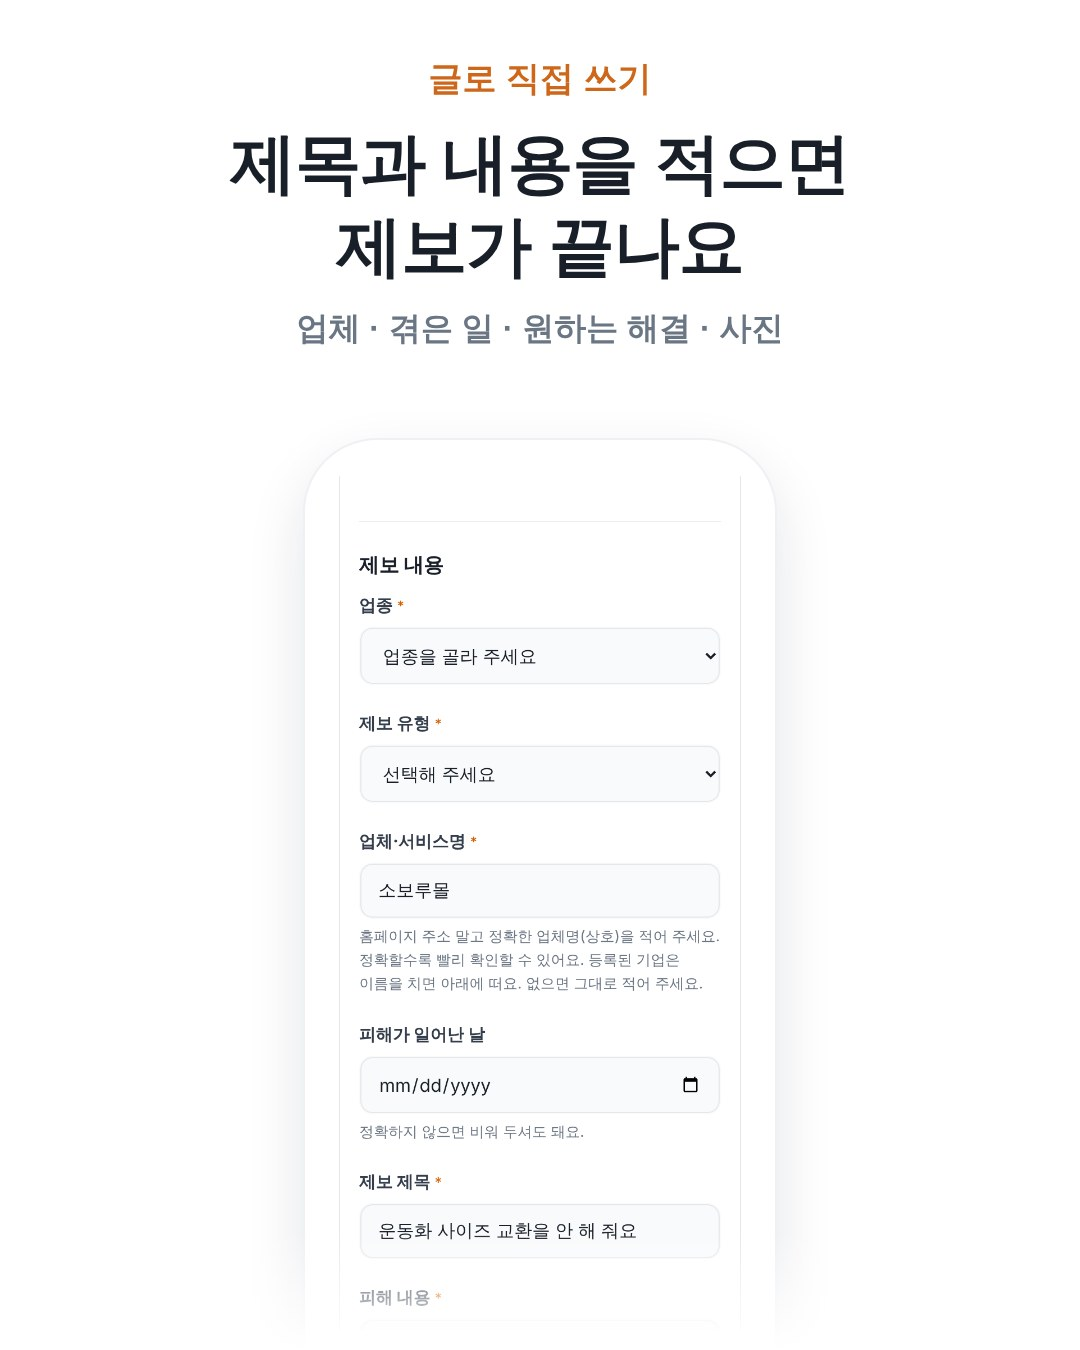
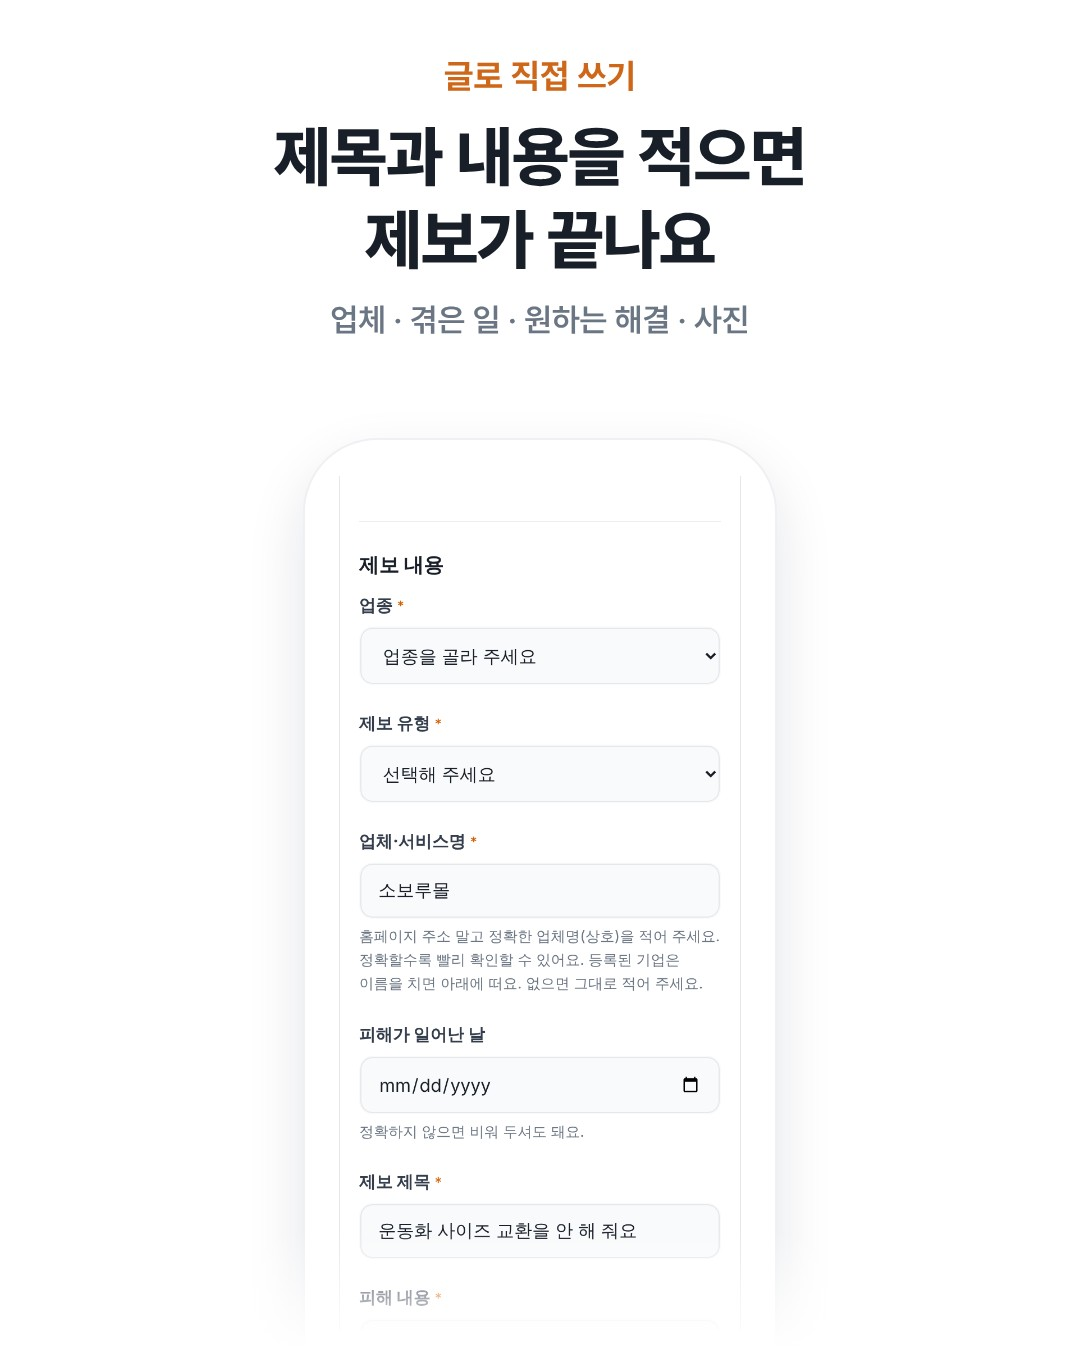
자문단 등록하면 회원 계정 바로 생성 + 이용 안내 그림 글꼴 통일 (#366)
* 자문단 등록하면 자문단 회원 계정이 바로 생기고 로그인됨

Claude-Session: https://claude.ai/code/session_01SGfBdtXmX7h9qt8XW4iLQw

* 이용 안내 '글로 직접 쓰기' 그림 글씨를 한 글꼴(Pretendard)로 다시 그림

Claude-Session: https://claude.ai/code/session_01SGfBdtXmX7h9qt8XW4iLQw

---------

Changed region(s): [[0.2139, 0.0311, 0.7944, 0.28]]

diff --git a/templates/expert_done.html b/templates/expert_done.html
@@ -1,5 +1,5 @@
 {% extends 'base.html' %}
-{# 자문단 등록을 마친 화면 (운영자 2026-11-03: 로그인 없이 등록 → 댓글용 계정은 여기서 한 번만 이음) #}
+{# 자문단 등록을 마친 화면 (운영자 2026-11-04: 등록하면 자문단 회원 계정이 바로 만들어지고 로그인됨) #}
 {% block title %}{{ ui('xf.done_tab', '자문단 등록') }} | {{ txt('site.name') }}{% endblock %}
 {% block content %}
 <main class="xf xf-done"><div class="xf-done-in">
@@ -7,7 +7,7 @@
   <h1 class="xf-title">{% if status == 'approved' %}{{ ui('xf.done_ok', '소보루 자문단이 됐어요') }}{% else %}{{ ui('xf.done_wait', '신청을 받았어요') }}{% endif %}</h1>
   <ul class="xi-list xf-next">
     {% if status != 'approved' %}<li><span class="xh-ic is-check" aria-hidden="true"><svg viewBox="0 0 24 24"><path d="M12 3l7 3v5c0 4.5-3 8-7 10-4-2-7-5.5-7-10V6z"/><path d="M9 12l2 2 4-4"/></svg></span><div><b>{{ ui('xf.next1', '자격증 파일을 확인할게요') }}</b><span>{{ ui('xf.next1_sub', '확인이 끝나면 연락처로 알려 드려요') }}</span></div></li>{% endif %}
-    {% if login_url %}<li><span class="xh-ic is-talk" aria-hidden="true"><svg viewBox="0 0 24 24"><path d="M4 5h16v11H9l-5 4z"/></svg></span><div><b>{{ ui('xf.next2', '댓글을 달 계정을 이어 주세요') }}</b><span>{{ ui('xf.next2_sub', '카카오로 로그인하면 한 번에 이어져요') }}</span></div></li>{% endif %}
+    <li><span class="xh-ic is-talk" aria-hidden="true"><svg viewBox="0 0 24 24"><path d="M4 5h16v11H9l-5 4z"/></svg></span><div><b>{{ ui('xf.next3', '자문단 계정이 만들어졌어요') }}</b><span>{{ ui('xf.next3_sub', '지금 로그인된 상태예요. 다음부터는 적어 주신 휴대폰 번호로 로그인해요') }}</span></div></li>
   </ul>
   <div class="xi-cta">{% if login_url %}<a class="primary xi-go" href="{{ login_url }}">{{ ui('xf.claim', '로그인하고 계정 잇기') }}</a>{% else %}<a class="primary xi-go" href="{{ url_for('reports') }}">{{ ui('xf.to_reports', '제보 보러 가기') }}</a>{% endif %}</div>
 </div></main>

diff --git a/templates/admin_experts.html b/templates/admin_experts.html
@@ -3,7 +3,7 @@
 {% block content %}
 <main class="cs-page">
   <h1 class="cs-title">소보루 자문단</h1>
-  <p class="cs-lead">모시고 싶은 분을 한 명씩 등록해 <b>초대 링크</b>를 보내 주세요. 링크를 연 분이 정보와 자격증 파일을 넣으면 로그인 없이 바로 자문단이 돼요. 모집 페이지(<b>{{ url_for('expert_apply', _external=True) }}</b>)로 직접 신청한 분은 자격증 파일을 보고 공식 조회로 맞춰 본 뒤 승인해 주세요. 댓글에 ‘자문단 · 분야’ 표시가 붙으려면 그분이 카카오 로그인으로 계정을 한 번 이어야 해요.</p>
+  <p class="cs-lead">모시고 싶은 분을 한 명씩 등록해 <b>초대 링크</b>를 보내 주세요. 링크를 연 분이 정보와 자격증 파일을 넣으면 그 자리에서 자문단 계정이 만들어지고 바로 자문단이 돼요. 따로 가입하거나 로그인할 필요는 없고, 다음부터는 적어 준 휴대폰 번호로 로그인해요. 모집 페이지(<b>https://consumerjebo.co.kr{{ url_for('expert_apply') }}</b>)로 직접 신청한 분은 자격증 파일을 보고 공식 조회로 맞춰 본 뒤 승인해 주세요.</p>
 
   <form class="cs-panel cs-add" method="post"><input type="hidden" name="_csrf" value="{{ csrf_token() }}"><input type="hidden" name="act" value="invite">
     <h2>자문단 초대</h2>

diff --git a/templates/expert_form.html b/templates/expert_form.html
@@ -62,7 +62,7 @@
   <ol class="xf-step">
     <li><i>01</i><b>{{ ui('xf.s1', '신청') }}</b><p>{{ ui('xf.s1_t', '위 칸을 채우고 자격 서류를 올려요.') }}</p></li>
     <li><i>02</i><b>{{ ui('xf.s2', '확인') }}</b><p>{{ ui('xf.s2_t', '운영자가 서류를 보고 승인해요. 초대 링크로 오셨다면 바로 끝나요.') }}</p></li>
-    <li><i>03</i><b>{{ ui('xf.s3', '계정 잇기') }}</b><p>{{ ui('xf.s3_t', '카카오로 한 번 로그인하면 댓글에 자문단 표시가 붙어요.') }}</p></li>
+    <li><i>03</i><b>{{ ui('xf.s3b', '자문단 계정이 바로 생겨요') }}</b><p>{{ ui('xf.s3b_t', '따로 가입하지 않아도 돼요. 다음부터는 적어 주신 휴대폰 번호로 로그인해요.') }}</p></li>
     <li><i>04</i><b>{{ ui('xf.s4', '활동 시작') }}</b><p>{{ ui('xf.s4_t', '관심 있는 제보에 의견을 남기고, 받은 상담 신청을 확인해요.') }}</p></li>
   </ol>
   <a class="xf-more-go" href="#top">{{ ui('xf.more_go', '지금 신청하기') }}</a>

diff --git a/experts.py b/experts.py
@@ -123,9 +123,13 @@ def install(S):
         proof2 = save_proof(row['proof2'] if row else '', 'proof2')
         photo = save_photo(row['photo'] if row else '')
         status = 'approved' if invited else 'pending'
-        uid = g.user['id'] if g.user else None
-        claim = None if uid else secrets.token_urlsafe(16)
+        claim = None
         with conn() as db:
+            # 운영자 2026-11-04: 변호사가 따로 로그인하지 않게, 등록하는 순간 자문단 회원 계정을 만들고 바로 로그인시킴.
+            # 다음부터는 등록한 휴대폰 번호로 로그인하면 같은 계정. 이미 같은 번호의 회원이 있으면 그 계정에 이음
+            mine = g.user and db.execute('SELECT 1 FROM experts WHERE user_id=? AND id!=?', (g.user['id'], row['id'] if row else 0)).fetchone()
+            user = g.user if g.user and not mine else make_account(db, f)  # 이미 다른 자문단 계정으로 로그인돼 있으면(같은 브라우저로 여러 분 등록) 새 계정
+            uid = user['id']
             if row:
                 db.execute('UPDATE experts SET user_id=?,name=?,field=?,org=?,intro=?,phone=?,email=?,career=?,proof=?,proof2=?,photo=?,kind=?,status=?,token=NULL,claim=?,approved=? WHERE id=?',
                            (uid, *f.values(), proof, proof2, photo, kind, status, claim, now() if invited else '', row['id']))
@@ -133,8 +137,24 @@ def install(S):
             else:
                 eid = db.execute('INSERT INTO experts(user_id,name,field,org,intro,phone,email,career,proof,proof2,photo,kind,status,claim,created) VALUES(?,?,?,?,?,?,?,?,?,?,?,?,?,?,?)',
                                  (uid, *f.values(), proof, proof2, photo, kind, status, claim, now())).lastrowid
+        if not g.user or g.user['id'] != user['id']: S.sign_in(user, True)
         alert_new_expert(eid, f, kind, status)
         return eid, status, claim
+
+    def make_account(db, f):
+        phone = S.members.kr_phone(f['phone'])
+        if phone:
+            row = db.execute('SELECT * FROM users WHERE phone_verified=? ORDER BY id LIMIT 1', (phone,)).fetchone()
+            if row and not db.execute('SELECT 1 FROM experts WHERE user_id=?', (row['id'],)).fetchone(): return row
+        base = ''.join(ch for ch in f['name'] if ch.isalnum())[:10]
+        nick = next((n for n in [base] + [base + str(random.randint(2, 99)) for _ in range(5)] if n and not S.nickname_error(db, n)), '') or S.members.auto_nickname(db)
+        for _ in range(5):
+            login_id = 'x_' + secrets.token_hex(5)
+            if not db.execute('SELECT 1 FROM users WHERE login_id=?', (login_id,)).fetchone(): break
+        cur = db.execute("INSERT INTO users(login_id,pw_hash,nickname,email,terms_version,agreed_at,ip_hash,created,phone,phone_verified) VALUES(?,'',?,?,?,?,?,?,?,?)",
+                         (login_id, nick, f['email'], S.TERMS_VERSION, now(), S.ip_hash(), now(), phone, phone))
+        db.execute('UPDATE experts SET user_id=NULL WHERE user_id=?', (cur.lastrowid,))  # 지워진 옛 회원 번호가 다시 쓰인 경우 남은 연결 정리
+        return db.execute('SELECT * FROM users WHERE id=?', (cur.lastrowid,)).fetchone()
 
     def alert_new_expert(eid, f, kind, status):
         """운영자 2026-11-03 (밤): 자문단 가입이 들어오면 바로 하이웍스 메일(contact@)로 알림. EXPERT_ALERT_EMAIL로 바꿀 수 있음."""

diff --git a/tests/test_site.py b/tests/test_site.py
@@ -497,12 +497,12 @@ class SiteTest(unittest.TestCase):
         r = self.post_form(guest, '/expert/join/' + token, {'name': '김변호', 'field': '변호사', 'email': 'kim@x.kr', 'agree': '1', 'proof': pdf(), 'photo': (pic, 'me.jpg')})
         self.assertEqual(r.status_code, 302)
         done = guest.get(r.headers['Location']).get_data(as_text=True)
-        self.assertIn('/expert/claim/', done)  # 로그인 없이 등록 → 댓글용 계정은 나중에 한 번 잇기
+        # 운영자 2026-11-04: 등록하면 자문단 회원 계정이 바로 생기고 로그인됨 (따로 로그인·잇기 없음)
+        self.assertIn('자문단 계정이 만들어졌어요', done); self.assertNotIn('/expert/claim/', done)
         self.assertEqual(guest.get('/expert/join/' + token).status_code, 404)  # 링크는 한 번만
-        with self.site.conn() as db: key = db.execute("SELECT claim FROM experts WHERE name='김변호'").fetchone()[0]
-        pro, pid = self.member_client('pro_kim', '김변')
-        self.assertEqual(pro.get('/expert/claim/' + key).status_code, 302)
+        pro = guest
         self.assertIn('자문단 · 변호사', pro.get('/expert/apply').get_data(as_text=True))
+        with self.site.conn() as db: self.assertEqual(db.execute("SELECT u.nickname FROM experts e JOIN users u ON u.id=e.user_id WHERE e.name='김변호'").fetchone()[0], '김변호')
         # 직접 신청은 승인 전까지 표시 없음
         other, oid = self.member_client('pro_lee', '이사정')
         self.assertEqual(self.post_form(other, '/expert/apply', {'name': '이사정', 'field': '교수', 'agree': '1', 'phone': '010-1234-5678',
@@ -554,7 +554,7 @@ class SiteTest(unittest.TestCase):
         token3 = self.csrf(firm, '/reports/%d' % cid)
         firm.post('/reports/%d/comment' % cid, data={'_csrf': token3, 'body': '소비자 분쟁 상담을 돕고 있어요.'})
         self.assertIn('자문단 · 법무법인', self.client.get('/reports/%d' % cid).get_data(as_text=True))
-        with self.site.conn() as db: kim = db.execute('SELECT id FROM experts WHERE user_id=?', (pid,)).fetchone()[0]
+        with self.site.conn() as db: kim = db.execute("SELECT id FROM experts WHERE name='김변호'").fetchone()[0]
         self.post_form(adm, '/admin/experts', {'act': 'stop', 'id': kim})
         self.assertNotIn('자문단 · 변호사', self.client.get('/reports/%d' % cid).get_data(as_text=True))
         self.assertEqual(self.client.get(photo).status_code, 404)  # 멈추면 사진도 안 보임
